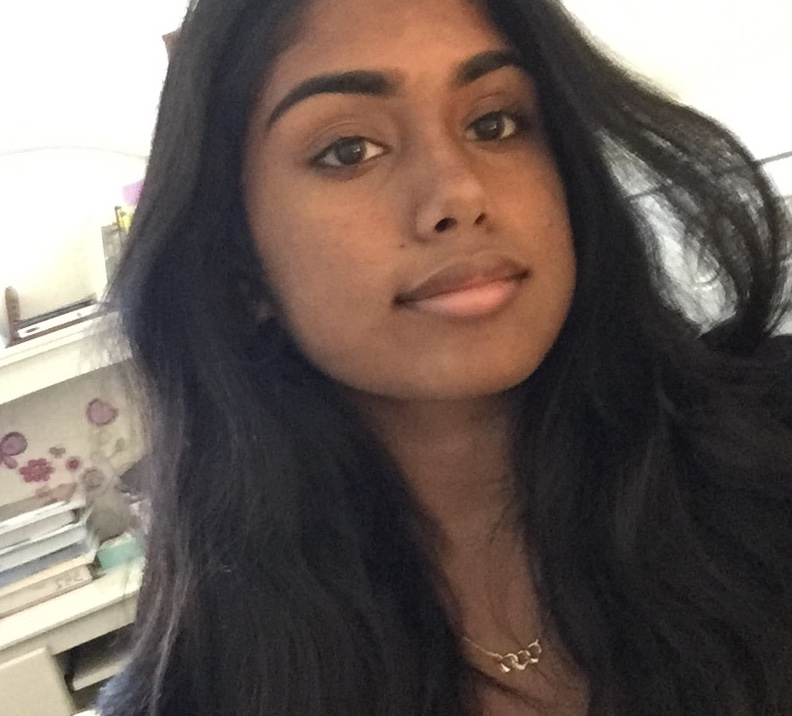
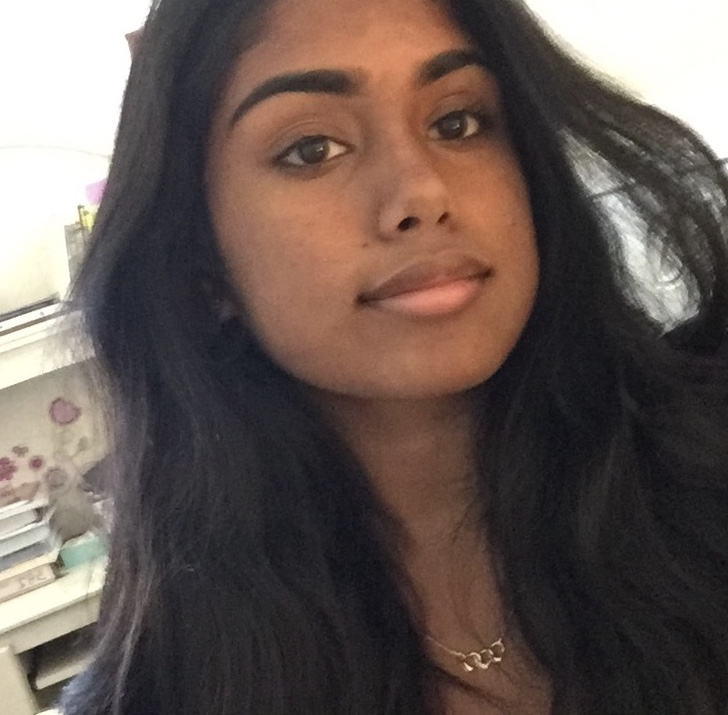
team

diff --git a/team.html b/team.html
@@ -97,7 +97,7 @@ permalink: /meettheteam
         </div>  
       </div>
       <div class="card">
-          <img src="assets/images/Avi.JPG"/>
+          <img src="assets/images/Avi.jpeg"/>
           <p class="name">Avi</p>
           <p class="title">Head of Communications</p>
           <div class="social">

diff --git a/assets/sass/master.sass b/assets/sass/master.sass
@@ -574,8 +574,8 @@ body
             margin: 2%
             width: 15%
         img
-            width: 70%
-            height: 45%
+            width: 8vw
+            height: 8vw
             position: relative
             border-radius: 400px
             +respond-to(handhelds)
